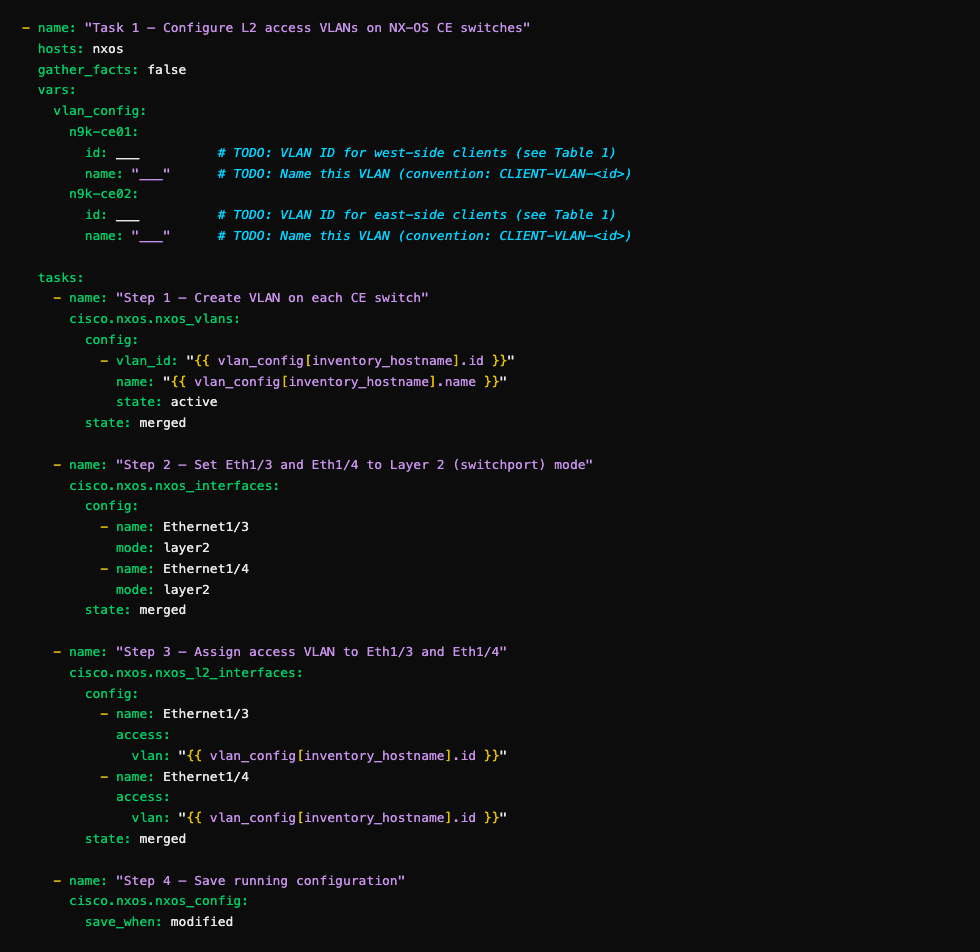
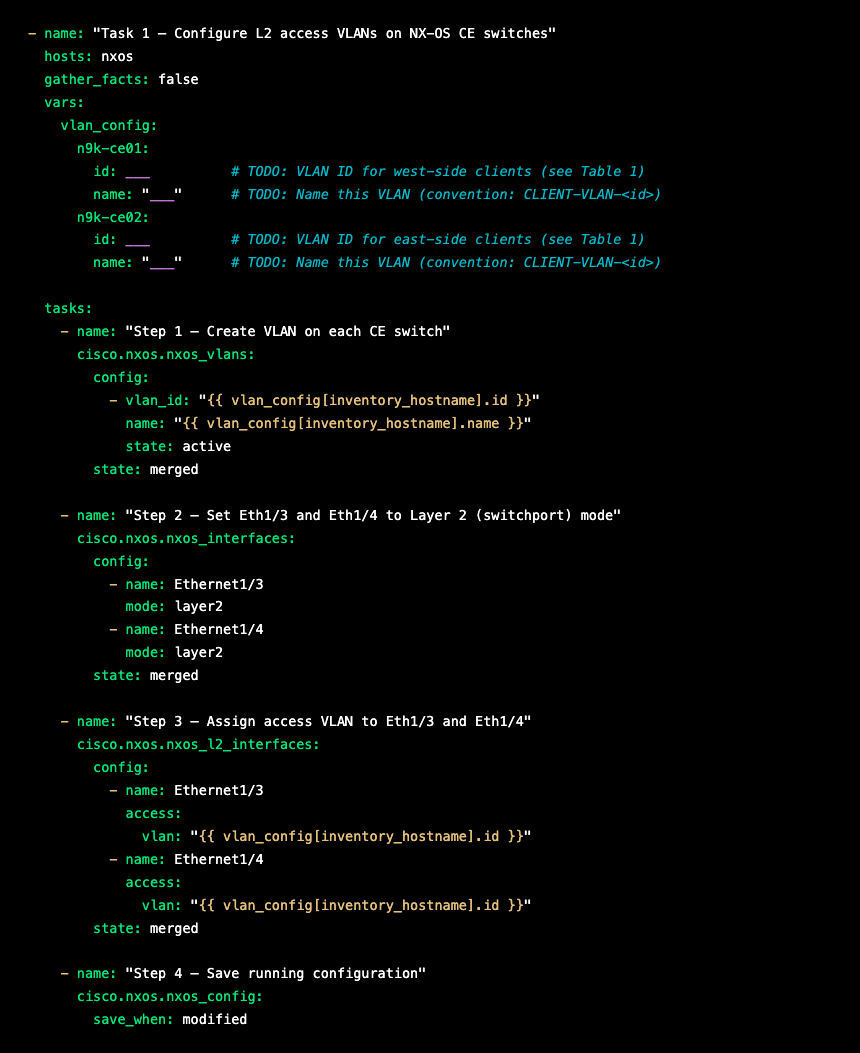
Rebuild task1-step2-playbook-clean with confirmed color scheme: green keys, white values, purple placeholders, cyan comments, yellow dashes

diff --git a/images/task1-step2-playbook-clean.html b/images/task1-step2-playbook-clean.html
@@ -1,0 +1,82 @@
+<!DOCTYPE html>
+<html lang="en">
+<head>
+<meta charset="UTF-8" />
+<meta name="viewport" content="width=1200" />
+<title>task1-step2-playbook-clean</title>
+<style>
+  @import url('https://fonts.googleapis.com/css2?family=JetBrains+Mono:wght@400;600&display=swap');
+
+  * { box-sizing: border-box; margin: 0; padding: 0; }
+  html, body { overflow: hidden; }
+
+  body {
+    background: #000000;
+    font-family: 'JetBrains Mono', 'Courier New', monospace;
+  }
+
+  .terminal {
+    background: #000000;
+    width: 860px;
+    padding: 22px 28px 22px 28px;
+    font-size: 13.5px;
+    line-height: 1.7;
+  }
+
+  .k  { color: #00e676; }                      /* all YAML keys — bright green */
+  .wh { color: #ffffff; }                      /* unquoted values, strings — white */
+  .ph { color: #c678dd; }                      /* ___ placeholders — purple */
+  .jj { color: #e5c07b; }                      /* Jinja2 {{ }} — yellow */
+  .d  { color: #e5c07b; }                      /* list dashes — yellow */
+  .cm { color: #00b8c8; font-style: italic; }  /* comments — cyan italic */
+</style>
+</head>
+<body>
+<div class="terminal">
+<pre><span class="d">-</span> <span class="k">name:</span> <span class="wh">"Task 1 — Configure L2 access VLANs on NX-OS CE switches"</span>
+  <span class="k">hosts:</span> <span class="wh">nxos</span>
+  <span class="k">gather_facts:</span> <span class="wh">false</span>
+  <span class="k">vars:</span>
+    <span class="k">vlan_config:</span>
+      <span class="k">n9k-ce01:</span>
+        <span class="k">id:</span> <span class="ph">___</span>          <span class="cm"># TODO: VLAN ID for west-side clients (see Table 1)</span>
+        <span class="k">name:</span> <span class="wh">"</span><span class="ph">___</span><span class="wh">"</span>      <span class="cm"># TODO: Name this VLAN (convention: CLIENT-VLAN-&lt;id&gt;)</span>
+      <span class="k">n9k-ce02:</span>
+        <span class="k">id:</span> <span class="ph">___</span>          <span class="cm"># TODO: VLAN ID for east-side clients (see Table 1)</span>
+        <span class="k">name:</span> <span class="wh">"</span><span class="ph">___</span><span class="wh">"</span>      <span class="cm"># TODO: Name this VLAN (convention: CLIENT-VLAN-&lt;id&gt;)</span>
+
+  <span class="k">tasks:</span>
+    <span class="d">-</span> <span class="k">name:</span> <span class="wh">"Step 1 — Create VLAN on each CE switch"</span>
+      <span class="k">cisco.nxos.nxos_vlans:</span>
+        <span class="k">config:</span>
+          <span class="d">-</span> <span class="k">vlan_id:</span> <span class="wh">"</span><span class="jj">{{ vlan_config[inventory_hostname].id }}</span><span class="wh">"</span>
+            <span class="k">name:</span> <span class="wh">"</span><span class="jj">{{ vlan_config[inventory_hostname].name }}</span><span class="wh">"</span>
+            <span class="k">state:</span> <span class="wh">active</span>
+        <span class="k">state:</span> <span class="wh">merged</span>
+
+    <span class="d">-</span> <span class="k">name:</span> <span class="wh">"Step 2 — Set Eth1/3 and Eth1/4 to Layer 2 (switchport) mode"</span>
+      <span class="k">cisco.nxos.nxos_interfaces:</span>
+        <span class="k">config:</span>
+          <span class="d">-</span> <span class="k">name:</span> <span class="wh">Ethernet1/3</span>
+            <span class="k">mode:</span> <span class="wh">layer2</span>
+          <span class="d">-</span> <span class="k">name:</span> <span class="wh">Ethernet1/4</span>
+            <span class="k">mode:</span> <span class="wh">layer2</span>
+        <span class="k">state:</span> <span class="wh">merged</span>
+
+    <span class="d">-</span> <span class="k">name:</span> <span class="wh">"Step 3 — Assign access VLAN to Eth1/3 and Eth1/4"</span>
+      <span class="k">cisco.nxos.nxos_l2_interfaces:</span>
+        <span class="k">config:</span>
+          <span class="d">-</span> <span class="k">name:</span> <span class="wh">Ethernet1/3</span>
+            <span class="k">access:</span>
+              <span class="k">vlan:</span> <span class="wh">"</span><span class="jj">{{ vlan_config[inventory_hostname].id }}</span><span class="wh">"</span>
+          <span class="d">-</span> <span class="k">name:</span> <span class="wh">Ethernet1/4</span>
+            <span class="k">access:</span>
+              <span class="k">vlan:</span> <span class="wh">"</span><span class="jj">{{ vlan_config[inventory_hostname].id }}</span><span class="wh">"</span>
+        <span class="k">state:</span> <span class="wh">merged</span>
+
+    <span class="d">-</span> <span class="k">name:</span> <span class="wh">"Step 4 — Save running configuration"</span>
+      <span class="k">cisco.nxos.nxos_config:</span>
+        <span class="k">save_when:</span> <span class="wh">modified</span></pre>
+</div>
+</body>
+</html>
